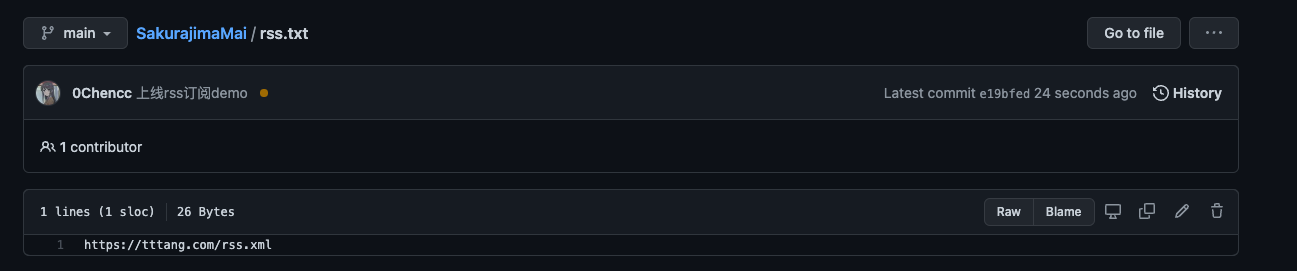
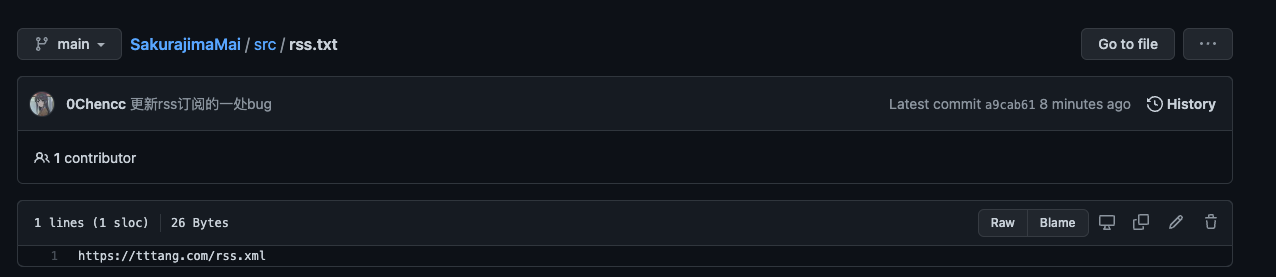
rss订阅

diff --git a/readme.md b/readme.md
@@ -80,14 +80,14 @@ sudo apt-get install python3.9-distutils
 <summary><b>📺A站（AcFun）UP主更新推送</b></summary>
 <img src=img/acfun_up.png>
 </details>
-
 <details>
 <summary><b>📰Rss订阅</b></summary>
 <br>考虑到rss的订阅并非过于隐私，而且rss订阅的站点越多越能获取到更多知识。</br>
-<br>出于这两点考虑我决定将rss订阅改成通过根目录的rss.txt文件来获取rss订阅链接。</br>
+<br>出于这两点考虑我决定将rss订阅改成通过src目录的rss.txt文件来获取rss订阅链接。</br>
 <br>其他用户也可以通过fork来获取其他优秀的朋友经常关注哪些前沿的网站。</br>
 <img src=img/rss.png>
 </details>
+
 ## 配置钉钉机器人
 
 需要注册一个钉钉账号，同时建立一个群聊（电脑端可以创建只有自己的群聊）
